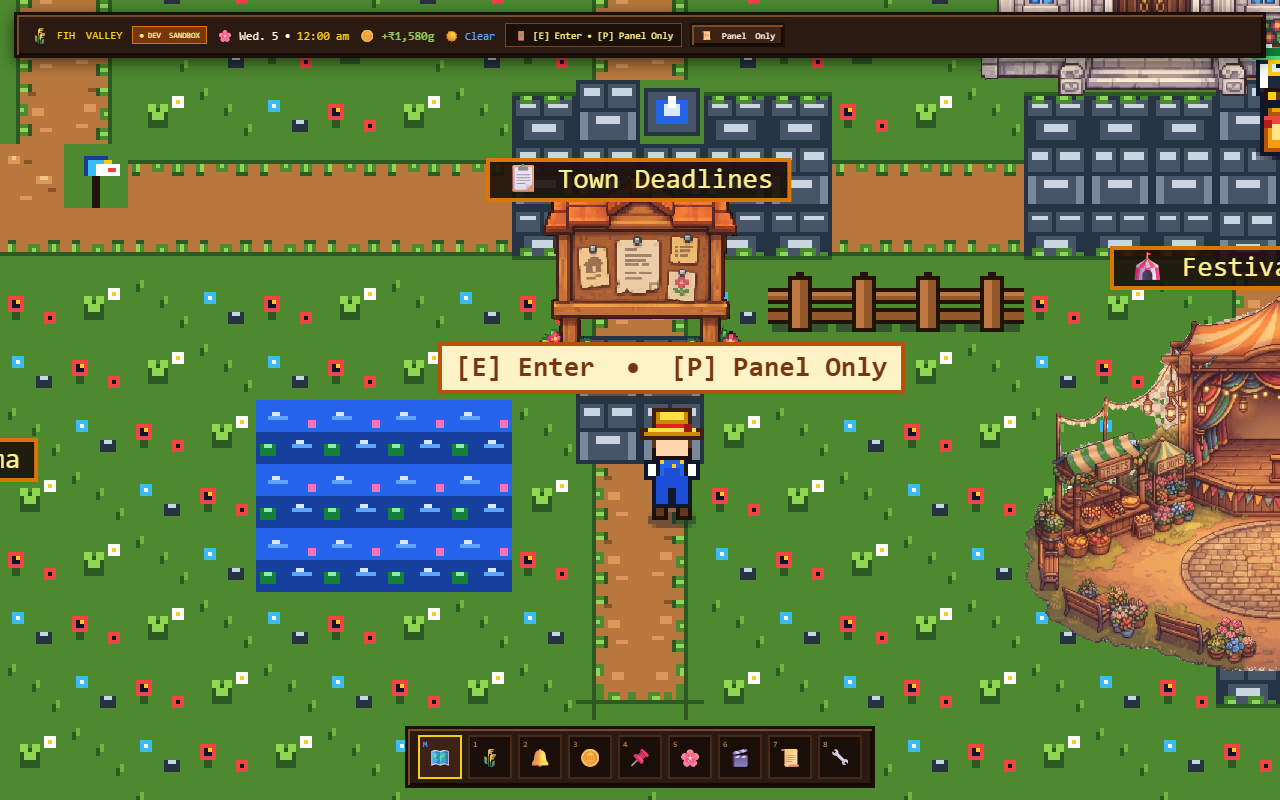
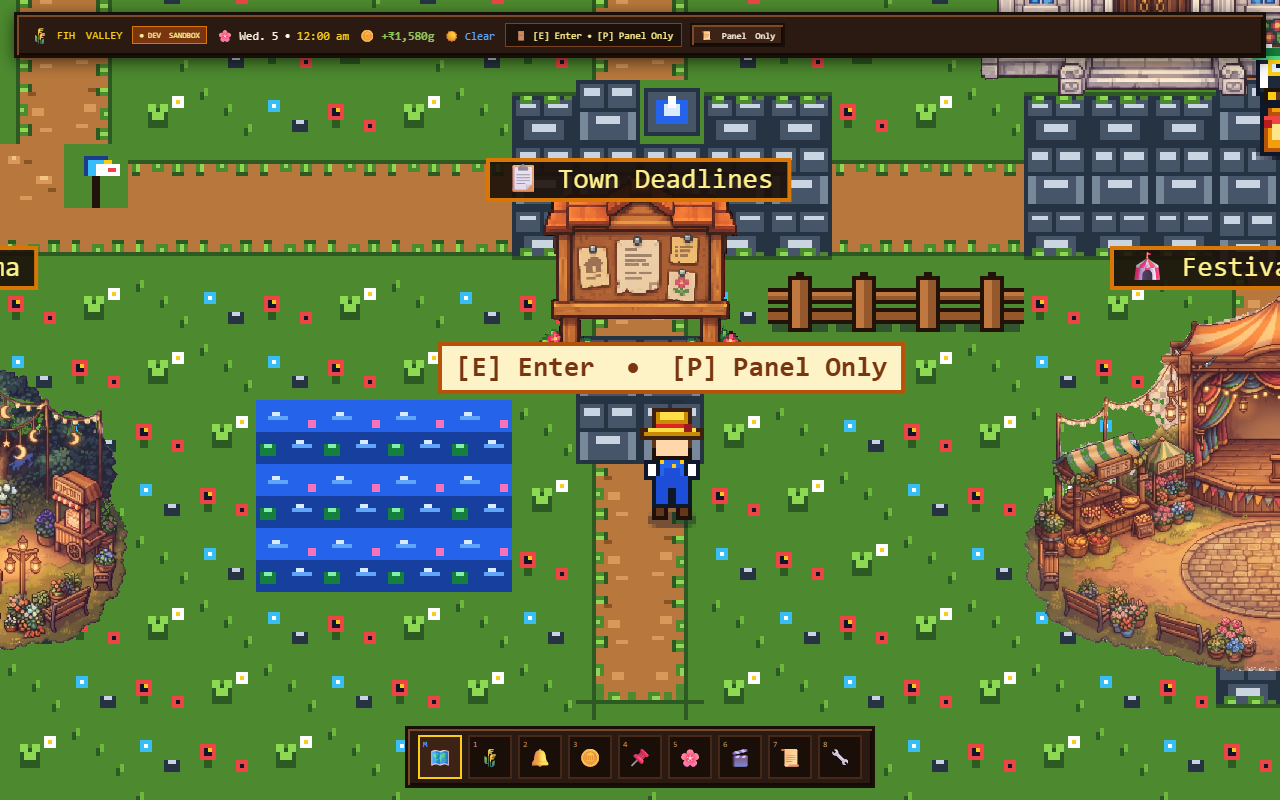
feat(overworld): replace moonlight cinema with custom pixel art amphitheater model

Changed region(s): [[0.0, 0.4688, 0.125, 0.8125], [0.0, 0.2812, 0.0312, 0.375]]

diff --git a/components/world/PixelWorldCanvas.jsx b/components/world/PixelWorldCanvas.jsx
@@ -98,12 +98,12 @@ export const BUILDING_HITBOXES = [
     icon: '🎬',
     doorX: 6 * TILE_SIZE,
     doorY: 19 * TILE_SIZE,
-    minX: 3 * TILE_SIZE,
-    minY: 17 * TILE_SIZE,
-    maxX: 9 * TILE_SIZE,
-    maxY: 21 * TILE_SIZE,
+    minX: 2 * TILE_SIZE,
+    minY: 14 * TILE_SIZE,
+    maxX: 10 * TILE_SIZE,
+    maxY: 20 * TILE_SIZE,
     bannerX: 6 * TILE_SIZE,
-    bannerY: 17 * TILE_SIZE - 6,
+    bannerY: 14 * TILE_SIZE - 6,
   },
   {
     id: 'audit',
@@ -298,8 +298,8 @@ export function isWalkable(wx, wy) {
     return false;
   }
 
-  // 9. Chapter 6: The Moonlight Cinema screen (tx: 4-7, ty: 18)
-  if (tx >= 4 && tx <= 7 && ty === 18) {
+  // 9. Chapter 6: The Moonlight Cinema screen & stage (tx: 4-7, ty: 16-18)
+  if (tx >= 4 && tx <= 7 && ty >= 16 && ty <= 18) {
     return false;
   }
 
@@ -426,7 +426,7 @@ export default function PixelWorldCanvas({
   const lastReportedNearbyRef = useRef(undefined);
 
   const stateRef = useRef({
-    images: { tileset: null, pip: null, bram: null, farmhouse: null, notice_board: null, bank: null, bell_tower: null, festival_grounds: null },
+    images: { tileset: null, pip: null, bram: null, farmhouse: null, notice_board: null, bank: null, bell_tower: null, festival_grounds: null, moonlight_cinema: null },
     loaded: false,
     camera: { x: 18 * 16, y: 12 * 16 }, // Center at Village Square on spawn
     targetCamera: { x: 18 * 16, y: 12 * 16 },
@@ -457,6 +457,7 @@ export default function PixelWorldCanvas({
       { key: 'bank', src: '/assets/buildings/bank.png' },
       { key: 'bell_tower', src: '/assets/buildings/bell_tower.png' },
       { key: 'festival_grounds', src: '/assets/buildings/festival_grounds.png' },
+      { key: 'moonlight_cinema', src: '/assets/buildings/moonlight_cinema.png' },
     ];
 
     let count = 0;
@@ -1091,16 +1092,25 @@ export default function PixelWorldCanvas({
         },
       });
 
-      // ── 7. Chapter 6: The Moonlight Cinema (x: 6, y: 19) ──
+      // ── 7. Chapter 6: The Moonlight Cinema (New Custom Moonlight Cinema) ──
       renderables.push({
-        y: 20 * TILE_SIZE,
+        y: 19 * TILE_SIZE + 6,
         render: () => {
-          const mx = 4 * TILE_SIZE;
-          const my = 18 * TILE_SIZE;
-          ctx.drawImage(tileset, 4 * TILE_SIZE, 3 * TILE_SIZE, TILE_SIZE, TILE_SIZE, mx, my, TILE_SIZE, TILE_SIZE);
-          ctx.drawImage(tileset, 4 * TILE_SIZE, 3 * TILE_SIZE, TILE_SIZE, TILE_SIZE, mx + TILE_SIZE, my, TILE_SIZE, TILE_SIZE);
-          ctx.drawImage(tileset, 3 * TILE_SIZE, 3 * TILE_SIZE, TILE_SIZE, TILE_SIZE, mx + 3 * TILE_SIZE, my + 1 * TILE_SIZE, TILE_SIZE, TILE_SIZE);
-          ctx.drawImage(tileset, 6 * TILE_SIZE, 4 * TILE_SIZE, TILE_SIZE, TILE_SIZE, mx + 2 * TILE_SIZE, my + 2 * TILE_SIZE, TILE_SIZE, TILE_SIZE);
+          const cinemaImg = state.images.moonlight_cinema;
+          if (cinemaImg) {
+            const bW = 128;
+            const bH = 93;
+            const bX = 6 * TILE_SIZE - bW / 2; // 96 - 64 = 32px
+            const bY = 20 * TILE_SIZE - bH + 4; // 320 - 93 + 4 = 231px
+            ctx.drawImage(cinemaImg, bX, bY, bW, bH);
+          } else {
+            const mx = 4 * TILE_SIZE;
+            const my = 18 * TILE_SIZE;
+            ctx.drawImage(tileset, 4 * TILE_SIZE, 3 * TILE_SIZE, TILE_SIZE, TILE_SIZE, mx, my, TILE_SIZE, TILE_SIZE);
+            ctx.drawImage(tileset, 4 * TILE_SIZE, 3 * TILE_SIZE, TILE_SIZE, TILE_SIZE, mx + TILE_SIZE, my, TILE_SIZE, TILE_SIZE);
+            ctx.drawImage(tileset, 3 * TILE_SIZE, 3 * TILE_SIZE, TILE_SIZE, TILE_SIZE, mx + 3 * TILE_SIZE, my + 1 * TILE_SIZE, TILE_SIZE, TILE_SIZE);
+            ctx.drawImage(tileset, 6 * TILE_SIZE, 4 * TILE_SIZE, TILE_SIZE, TILE_SIZE, mx + 2 * TILE_SIZE, my + 2 * TILE_SIZE, TILE_SIZE, TILE_SIZE);
+          }
         },
       });
 

diff --git a/tests/worldEngine.test.js b/tests/worldEngine.test.js
@@ -186,6 +186,21 @@ describe('Continuous Village Chapter Anchors (Addendum Section 3)', () => {
     expect(hitFestival).not.toBeNull();
     expect(hitFestival.id).toBe('dates');
     expect(hitFestival.name).toBe('The Festival Grounds');
+
+    // Clicking on the new Moonlight Cinema screen (at tx: 6, ty: 16) hits The Moonlight Cinema
+    const hitCinema = getHitBuilding(6 * 16, 16 * 16);
+    expect(hitCinema).not.toBeNull();
+    expect(hitCinema.id).toBe('watchlist');
+    expect(hitCinema.name).toBe('The Moonlight Cinema');
+  });
+
+  it('detects entrance proximity for the custom Moonlight Cinema', async () => {
+    const { getNearbyBuilding } = await import('../components/world/PixelWorldCanvas');
+
+    // Standing on the entrance pad at (tx: 6, ty: 19) detects The Moonlight Cinema within range
+    const nearby = getNearbyBuilding(6 * 16, 19 * 16, 36);
+    expect(nearby).not.toBeNull();
+    expect(nearby.id).toBe('watchlist');
   });
 
   it('detects entrance proximity for the custom Festival Grounds', async () => {

diff --git a/docs/redesign/overworld-navigation/walkthrough.md b/docs/redesign/overworld-navigation/walkthrough.md
@@ -66,6 +66,13 @@ The Overworld exploration experience features authentic autotiled dirt paths, so
 
 ---
 
+### 1e. The Moonlight Cinema Amphitheater (Custom Sprite Integration)
+*The starlit Moonlight Cinema (Chapter 6: Watchlist & Reading Log) features an open-air amphitheater with a timber projection stage, crisp glowing canvas screen, draped valances in indigo and magenta, crescent moon pediment crest with star carvings, hanging string lights with glowing crescent moon and star lanterns, twin street lamps, lush forest canopy, a left "TICKETS" booth, a right "POPCORN" warmer cart, tiered wooden benches with cozy colorful blankets, and an entrance pad seamlessly connecting to Southwest Moonlight Cinema Lane.*
+
+![Custom Moonlight Cinema Amphitheater in Live Overworld](/C:/Users/gouth/.gemini/antigravity/brain/7a513e8a-e2f0-4f3b-8051-22e22a3a0e1e/overworld-navigation/overworld-cinema-custom-desktop.png)
+
+---
+
 ### 2. The Custom Farmstead House & Front Porch Proximity
 *The custom 16-bit house model rendered in the live world, complete with stone chimney, wooden door, flowerbox, glowing lantern, and stone doorstep aligning with the farm lane.*
 
@@ -124,6 +131,7 @@ The Overworld exploration experience features authentic autotiled dirt paths, so
 - [x] **Mobile Panel-Only Mode:** Canvas is completely unmounted on mobile viewports (`window.innerWidth <= 768px`) with zero canvas CPU/touch overhead, defaulting directly to chapter panels (`todos`).
 - [x] **Touch-Optimized Mobile Hotbar:** Displays all 8 chapters neatly across mobile screen width without wrapping or scrolling.
 - [x] **Mobile Resident Banner:** Inline resident dialogue banner inside the parchment container keeping lore intact.
+- [x] **Custom Moonlight Cinema Amphitheater Integrated:** Extracted transparent PNG placed at `/public/assets/buildings/moonlight_cinema.png` and rendered in the live canvas loop with projection screen, crescent moon crest, hanging star/moon lanterns, popcorn cart, tickets booth, and tiered viewing benches.
 - [x] **Custom Festival Grounds Pavilion Integrated:** Extracted transparent PNG placed at `/public/assets/buildings/festival_grounds.png` and rendered in the live canvas loop with striped stage canopy, market stalls, flower planter boxes, and cobblestone dance plaza.
 - [x] **Custom Belfry Clock & Bell Tower Integrated:** Extracted transparent PNG placed at `/public/assets/buildings/bell_tower.png` and rendered in the live canvas loop with brass weather vane and clock face.
 - [x] **Custom Bank / Ledger Model Integrated:** Extracted transparent PNG placed at `/public/assets/buildings/bank.png` and rendered in the live canvas loop with Bram the Badger Factor and oak teller desk.
@@ -137,6 +145,6 @@ The Overworld exploration experience features authentic autotiled dirt paths, so
 - [x] **Consistent 2-Tile Road Width:** Major roads, avenues, and chapter branch lanes are all 32px (2 tiles wide).
 - [x] **Panel Only Proximity Key:** `[P]` opens directly in Panel Only mode from the world map.
 - [x] **Global Escape Handler:** Restores the village canvas from any mode on desktop; stays gracefully in panels on mobile.
-- [x] **Automated Tests:** **55 / 55 passing** in Vitest.
+- [x] **Automated Tests:** **56 / 56 passing** in Vitest.
 - [x] **ESLint:** **0 errors / 0 warnings**.
 - [x] **Production Build:** Clean Next.js 16 Turbopack compilation.
